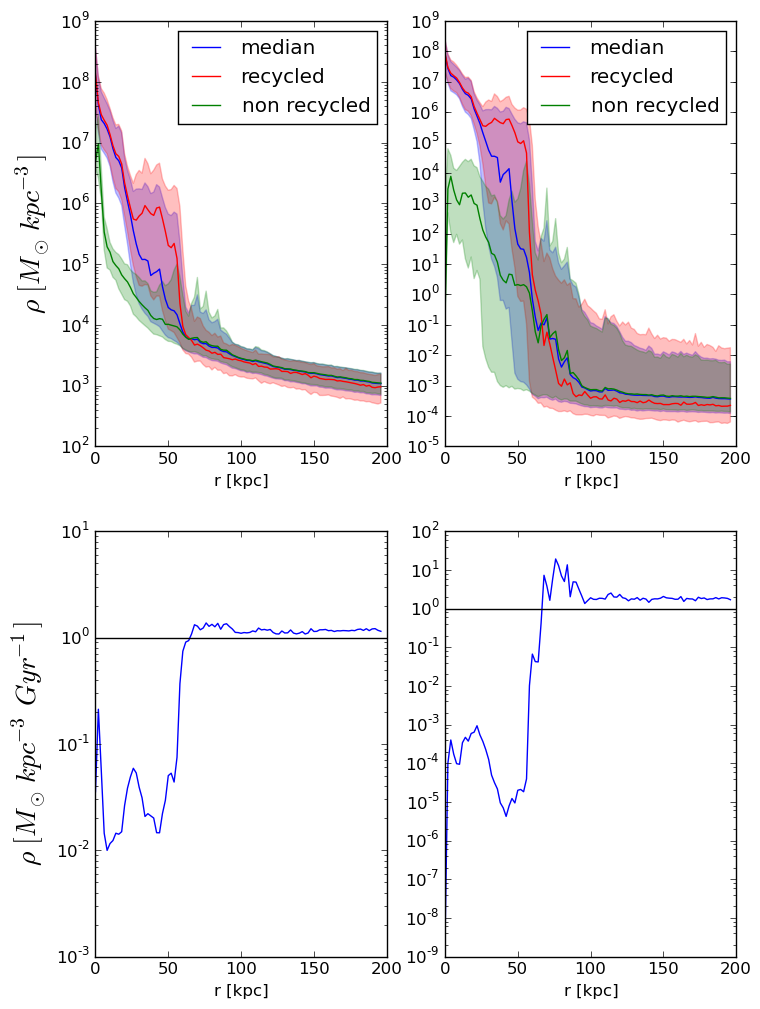
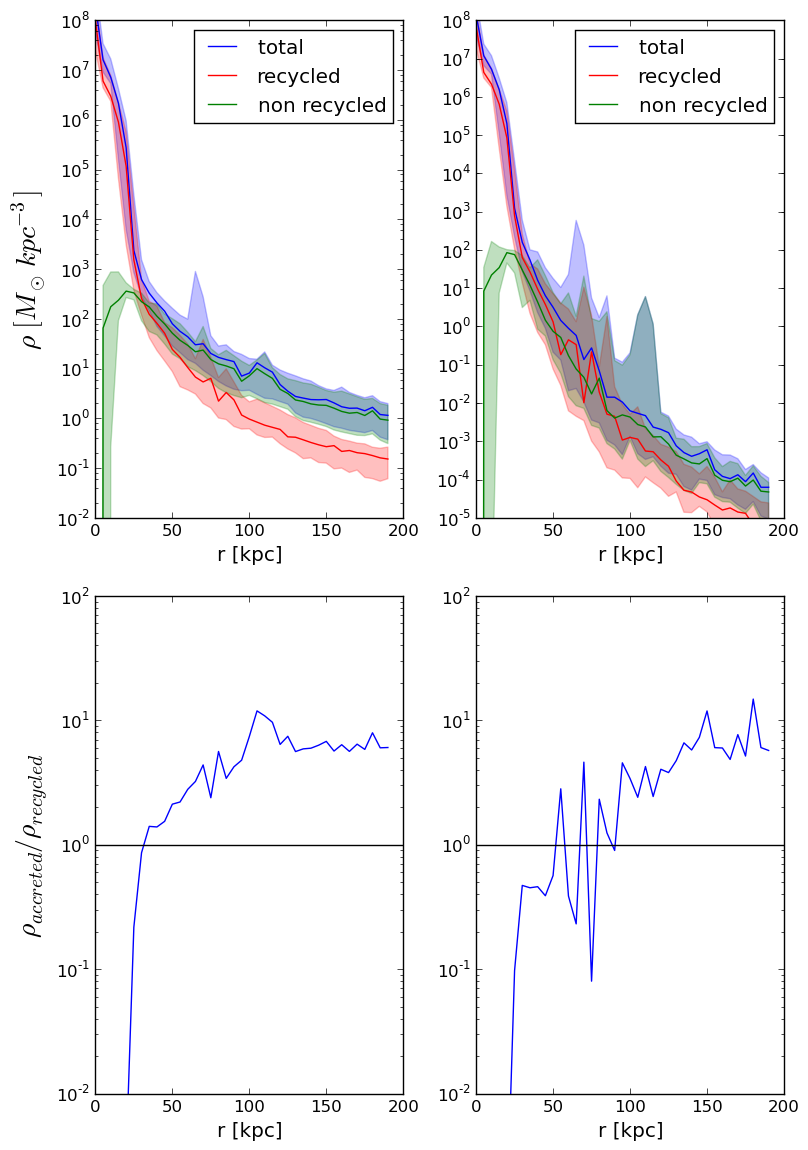
fix density_profiles_HI

diff --git a/1/density_profiles_HI.py b/1/density_profiles_HI.py
@@ -11,6 +11,38 @@ from multiprocessing import Pool
 
 filename = __file__
 
+
+bins = np.arange(0, 200, 5)
+
+profiles = np.zeros(3, dtype=object)
+HI_profiles = np.zeros(3, dtype=object)
+
+for i, args in enumerate(utils.combinations):
+    halo = args[0]
+    definition = 'ism'
+
+    path = '/ptmp/mpa/naab/REFINED/%s/SF_X/4x-2phase/out/snap_%s_4x_???' % (halo, halo)
+    max = int(sorted(glob.glob(path))[-1][-3:])
+    s, h, g = pg.prepare_zoom('/ptmp/mpa/naab/REFINED/%s/SF_X/4x-2phase/out/snap_%s_4x_%s' % (halo, halo, max), gas_trace='/u/mihac/data/%s/4x-2phase/gastrace_%s' % (halo, definition), star_form=None)
+
+    m_nrec = s.gas['num_recycled'] == -1
+    m_rec = np.max(s.gas['T_at_ejection'] > 0, axis=1)
+    
+    if i == 0:
+        profiles[0] = pg.analysis.profile_dens(s.gas, 'rho', r_edges=bins)
+        profiles[1] = pg.analysis.profile_dens(s.gas[m_rec], 'rho', r_edges=bins)
+        profiles[2] = pg.analysis.profile_dens(s.gas[m_nrec], 'rho', r_edges=bins)
+        HI_profiles[0] = pg.analysis.profile_dens(s.gas, 'HI/dV', r_edges=bins)
+        HI_profiles[1] = pg.analysis.profile_dens(s.gas[m_rec], 'HI/dV', r_edges=bins)
+        HI_profiles[2] = pg.analysis.profile_dens(s.gas[m_nrec], 'HI/dV', r_edges=bins)
+    else:
+        profiles[0] = np.column_stack((profiles[0], pg.analysis.profile_dens(s.gas, 'rho', r_edges=bins)))
+        profiles[1] = np.column_stack((profiles[1], pg.analysis.profile_dens(s.gas[m_rec], 'rho', r_edges=bins)))
+        profiles[2] = np.column_stack((profiles[2], pg.analysis.profile_dens(s.gas[m_nrec], 'rho', r_edges=bins)))
+        HI_profiles[0] = np.column_stack((HI_profiles[0], pg.analysis.profile_dens(s.gas, 'HI/dV', r_edges=bins)))
+        HI_profiles[1] = np.column_stack((HI_profiles[1], pg.analysis.profile_dens(s.gas[m_rec], 'HI/dV', r_edges=bins)))
+        HI_profiles[2] = np.column_stack((HI_profiles[2], pg.analysis.profile_dens(s.gas[m_nrec], 'HI/dV', r_edges=bins)))
+ 
 f = plt.figure(figsize=utils.figsize)
 gs = gridspec.GridSpec(2, 2)
 ax1 = plt.subplot(gs[0, 0])
@@ -19,101 +51,48 @@ ax3 = plt.subplot(gs[1, 0])
 ax4 = plt.subplot(gs[1, 1])
 
 ax1.set_ylabel(r'$\rho\ [M_\odot\ kpc^{-3}]$', fontsize=20)
-ax3.set_ylabel(r'$\rho\ [M_\odot\ kpc^{-3}\ Gyr^{-1}]$', fontsize=20)
+ax3.set_ylabel(r'$\rho_{accreted}/\rho_{recycled}$', fontsize=20)
+
+ax1.set_yscale('log')
+ax2.set_yscale('log')
+ax1.set_ylim((1e-2, 1e8))
+ax2.set_ylim((1e-5, 1e8))
 
 for a in [ax1, ax2, ax3, ax4]:
     a.set_yscale('log')
     a.set_xlabel('r [kpc]')
 
-def binned_data(x, y, bins, mode=0, HI=False):
-    data = []
-    x = np.array(x)
-    y = np.array(y)
-    for i, bin in enumerate(bins[1:]):
-        if not HI:
-            if mode == 0:
-                data_in_bins_tot[i] += y[(x >= bins[i]) & (x < bin)].tolist()
-            if mode == 1:
-                data_in_bins_rec[i] += y[(x >= bins[i]) & (x < bin)].tolist()
-            if mode == 2:
-                data_in_bins_nrec[i] += y[(x >= bins[i]) & (x < bin)].tolist()
-        if HI:
-            if mode == 0:
-                HI_data_in_bins_tot[i] += y[(x >= bins[i]) & (x < bin)].tolist()
-            if mode == 1:
-                HI_data_in_bins_rec[i] += y[(x >= bins[i]) & (x < bin)].tolist()
-            if mode == 2:
-                HI_data_in_bins_nrec[i] += y[(x >= bins[i]) & (x < bin)].tolist()
-
-
-bins = np.arange(0, 200, 2)
-data_in_bins_tot = [[] for bin in bins[1:]]
-data_in_bins_rec = [[] for bin in bins[1:]]
-data_in_bins_nrec = [[] for bin in bins[1:]]
-HI_data_in_bins_tot = [[] for bin in bins[1:]]
-HI_data_in_bins_rec = [[] for bin in bins[1:]]
-HI_data_in_bins_nrec = [[] for bin in bins[1:]]
-for args in utils.combinations:
-    halo = args[0]
-    definition = 'ism'
-
-    path = '/ptmp/mpa/naab/REFINED/%s/SF_X/4x-2phase/out/snap_%s_4x_???' % (halo, halo)
-    max = int(sorted(glob.glob(path))[-1][-3:])
-    s, h, g = pg.prepare_zoom('/ptmp/mpa/naab/REFINED/%s/SF_X/4x-2phase/out/snap_%s_4x_%s' % (halo, halo, max), gas_trace='/u/mihac/data/%s/4x-2phase/gastrace_%s' % (halo, definition), star_form=None)
-
-    dens = s.gas['rho']
-    m_nrec = s.gas['num_recycled'] == -1
-    m_rec = np.max(s.gas['T_at_ejection'] > 0, axis=1)
-    binned_data(s.gas['r'], dens, bins, mode=0)
-    binned_data(s.gas[m_nrec]['r'], dens[m_nrec], bins, mode=2)
-    binned_data(s.gas[m_rec]['r'], dens[m_rec], bins, mode=1)
-
-    HI_dens = s.gas.get('HI/dV')
-    binned_data(s.gas['r'], HI_dens, bins, mode=0, HI=True)
-    binned_data(s.gas[m_nrec]['r'], HI_dens[m_nrec], bins, mode=2, HI=True)
-    binned_data(s.gas[m_rec]['r'], HI_dens[m_rec], bins, mode=1, HI=True)
-    
-
-HI_median, HI_percentile25, HI_percentile75 = [], [], []
-median_tot = [np.nanpercentile(x, 50) for x in data_in_bins_tot]
-percentile25_tot = [np.nanpercentile(x, 25) for x in data_in_bins_tot]
-percentile75_tot = [np.nanpercentile(x, 75) for x in data_in_bins_tot]
-median_rec = [np.nanpercentile(x, 50) for x in data_in_bins_rec]
-percentile25_rec = [np.nanpercentile(x, 25) for x in data_in_bins_rec]
-percentile75_rec = [np.nanpercentile(x, 75) for x in data_in_bins_rec]
-median_nrec = [np.nanpercentile(x, 50) for x in data_in_bins_nrec]
-percentile25_nrec = [np.nanpercentile(x, 25) for x in data_in_bins_nrec]
-percentile75_nrec = [np.nanpercentile(x, 75) for x in data_in_bins_nrec]
-HI_median_tot = [np.nanpercentile(x, 50) for x in HI_data_in_bins_tot]
-HI_percentile25_tot = [np.nanpercentile(x, 25) for x in HI_data_in_bins_tot]
-HI_percentile75_tot = [np.nanpercentile(x, 75) for x in HI_data_in_bins_tot]
-HI_median_rec = [np.nanpercentile(x, 50) for x in HI_data_in_bins_rec]
-HI_percentile25_rec = [np.nanpercentile(x, 25) for x in HI_data_in_bins_rec]
-HI_percentile75_rec = [np.nanpercentile(x, 75) for x in HI_data_in_bins_rec]
-HI_median_nrec = [np.nanpercentile(x, 50) for x in HI_data_in_bins_nrec]
-HI_percentile25_nrec = [np.nanpercentile(x, 25) for x in HI_data_in_bins_nrec]
-HI_percentile75_nrec = [np.nanpercentile(x, 75) for x in HI_data_in_bins_nrec]
-
- 
-ax1.plot(bins[:-1], median_tot, color='b', label='median')
-ax1.plot(bins[:-1], median_rec, color='r', label='recycled')
-ax1.plot(bins[:-1], median_nrec, color='g', label='non recycled')
-ax1.fill_between(bins[:-1], percentile25_tot, percentile75_tot, alpha=.25, color='b', label='total')
-ax1.fill_between(bins[:-1], percentile25_rec, percentile75_rec, alpha=.25, color='r', label='recycled')
-ax1.fill_between(bins[:-1], percentile25_nrec, percentile75_nrec, alpha=.25, color='g', label='non recycled')
+ax1.plot(bins[:-1], np.percentile(profiles[0], 50, axis=1), color='b', label='total ')
+ax1.plot(bins[:-1], np.percentile(profiles[1], 50, axis=1), color='r', label='recycled')
+ax1.plot(bins[:-1], np.percentile(profiles[2], 50, axis=1), color='g', label='non recycled')
+ax1.fill_between(bins[:-1], np.percentile(profiles[0], 25, axis=1),
+    np.percentile(profiles[0], 75, axis=1), alpha=.25, color='b')
+ax1.fill_between(bins[:-1], np.percentile(profiles[1], 25, axis=1),
+    np.percentile(profiles[1], 75, axis=1), alpha=.25, color='r')
+ax1.fill_between(bins[:-1], np.percentile(profiles[2], 25, axis=1),
+    np.percentile(profiles[2], 75, axis=1), alpha=.25, color='g')
 ax1.legend(loc='upper right')
-ax2.plot(bins[:-1], HI_median_tot, color='b', label='median')
-ax2.plot(bins[:-1], HI_median_rec, color='r', label='recycled')
-ax2.plot(bins[:-1], HI_median_nrec, color='g', label='non recycled')
-ax2.fill_between(bins[:-1], HI_percentile25_tot, HI_percentile75_tot, alpha=.25, color='b', label='total')
-ax2.fill_between(bins[:-1], HI_percentile25_rec, HI_percentile75_rec, alpha=.25, color='r', label='recycled')
-ax2.fill_between(bins[:-1], HI_percentile25_nrec, HI_percentile75_nrec, alpha=.25, color='g', label='non recycled')
+
+ax2.plot(bins[:-1], np.percentile(HI_profiles[0], 50, axis=1), color='b', label='total ')
+ax2.plot(bins[:-1], np.percentile(HI_profiles[1], 50, axis=1), color='r', label='recycled')
+ax2.plot(bins[:-1], np.percentile(HI_profiles[2], 50, axis=1), color='g', label='non recycled')
+ax2.fill_between(bins[:-1], np.percentile(HI_profiles[0], 25, axis=1),
+    np.percentile(HI_profiles[0], 75, axis=1), alpha=.25, color='b')
+ax2.fill_between(bins[:-1], np.percentile(HI_profiles[1], 25, axis=1),
+    np.percentile(HI_profiles[1], 75, axis=1), alpha=.25, color='r')
+ax2.fill_between(bins[:-1], np.percentile(HI_profiles[2], 25, axis=1),
+    np.percentile(HI_profiles[2], 75, axis=1), alpha=.25, color='g')
 ax2.legend(loc='upper right')
 
-ax3.plot(bins[:-1], np.array(median_nrec) / np.array(median_rec))
+
+ax3.plot(bins[:-1], np.percentile(profiles[2], 50, axis=1) / np.percentile(profiles[1], 50, axis=1))
 ax3.plot([0, 200], [1, 1], color='k')
-ax4.plot(bins[:-1], np.array(HI_median_nrec) / np.array(HI_median_rec))
+ax3.set_ylim((1e-2, 1e2))
+ax4.plot(bins[:-1], np.percentile(HI_profiles[2], 50, axis=1) / np.percentile(HI_profiles[1], 50, axis=1))
 ax4.plot([0, 200], [1, 1], color='k')
+ax4.set_ylim((1e-2, 1e2))
+
+f.tight_layout()
 
 plt.savefig(filename.split("/")[-1][:-3] + ".png", bbox_inches='tight')
 
